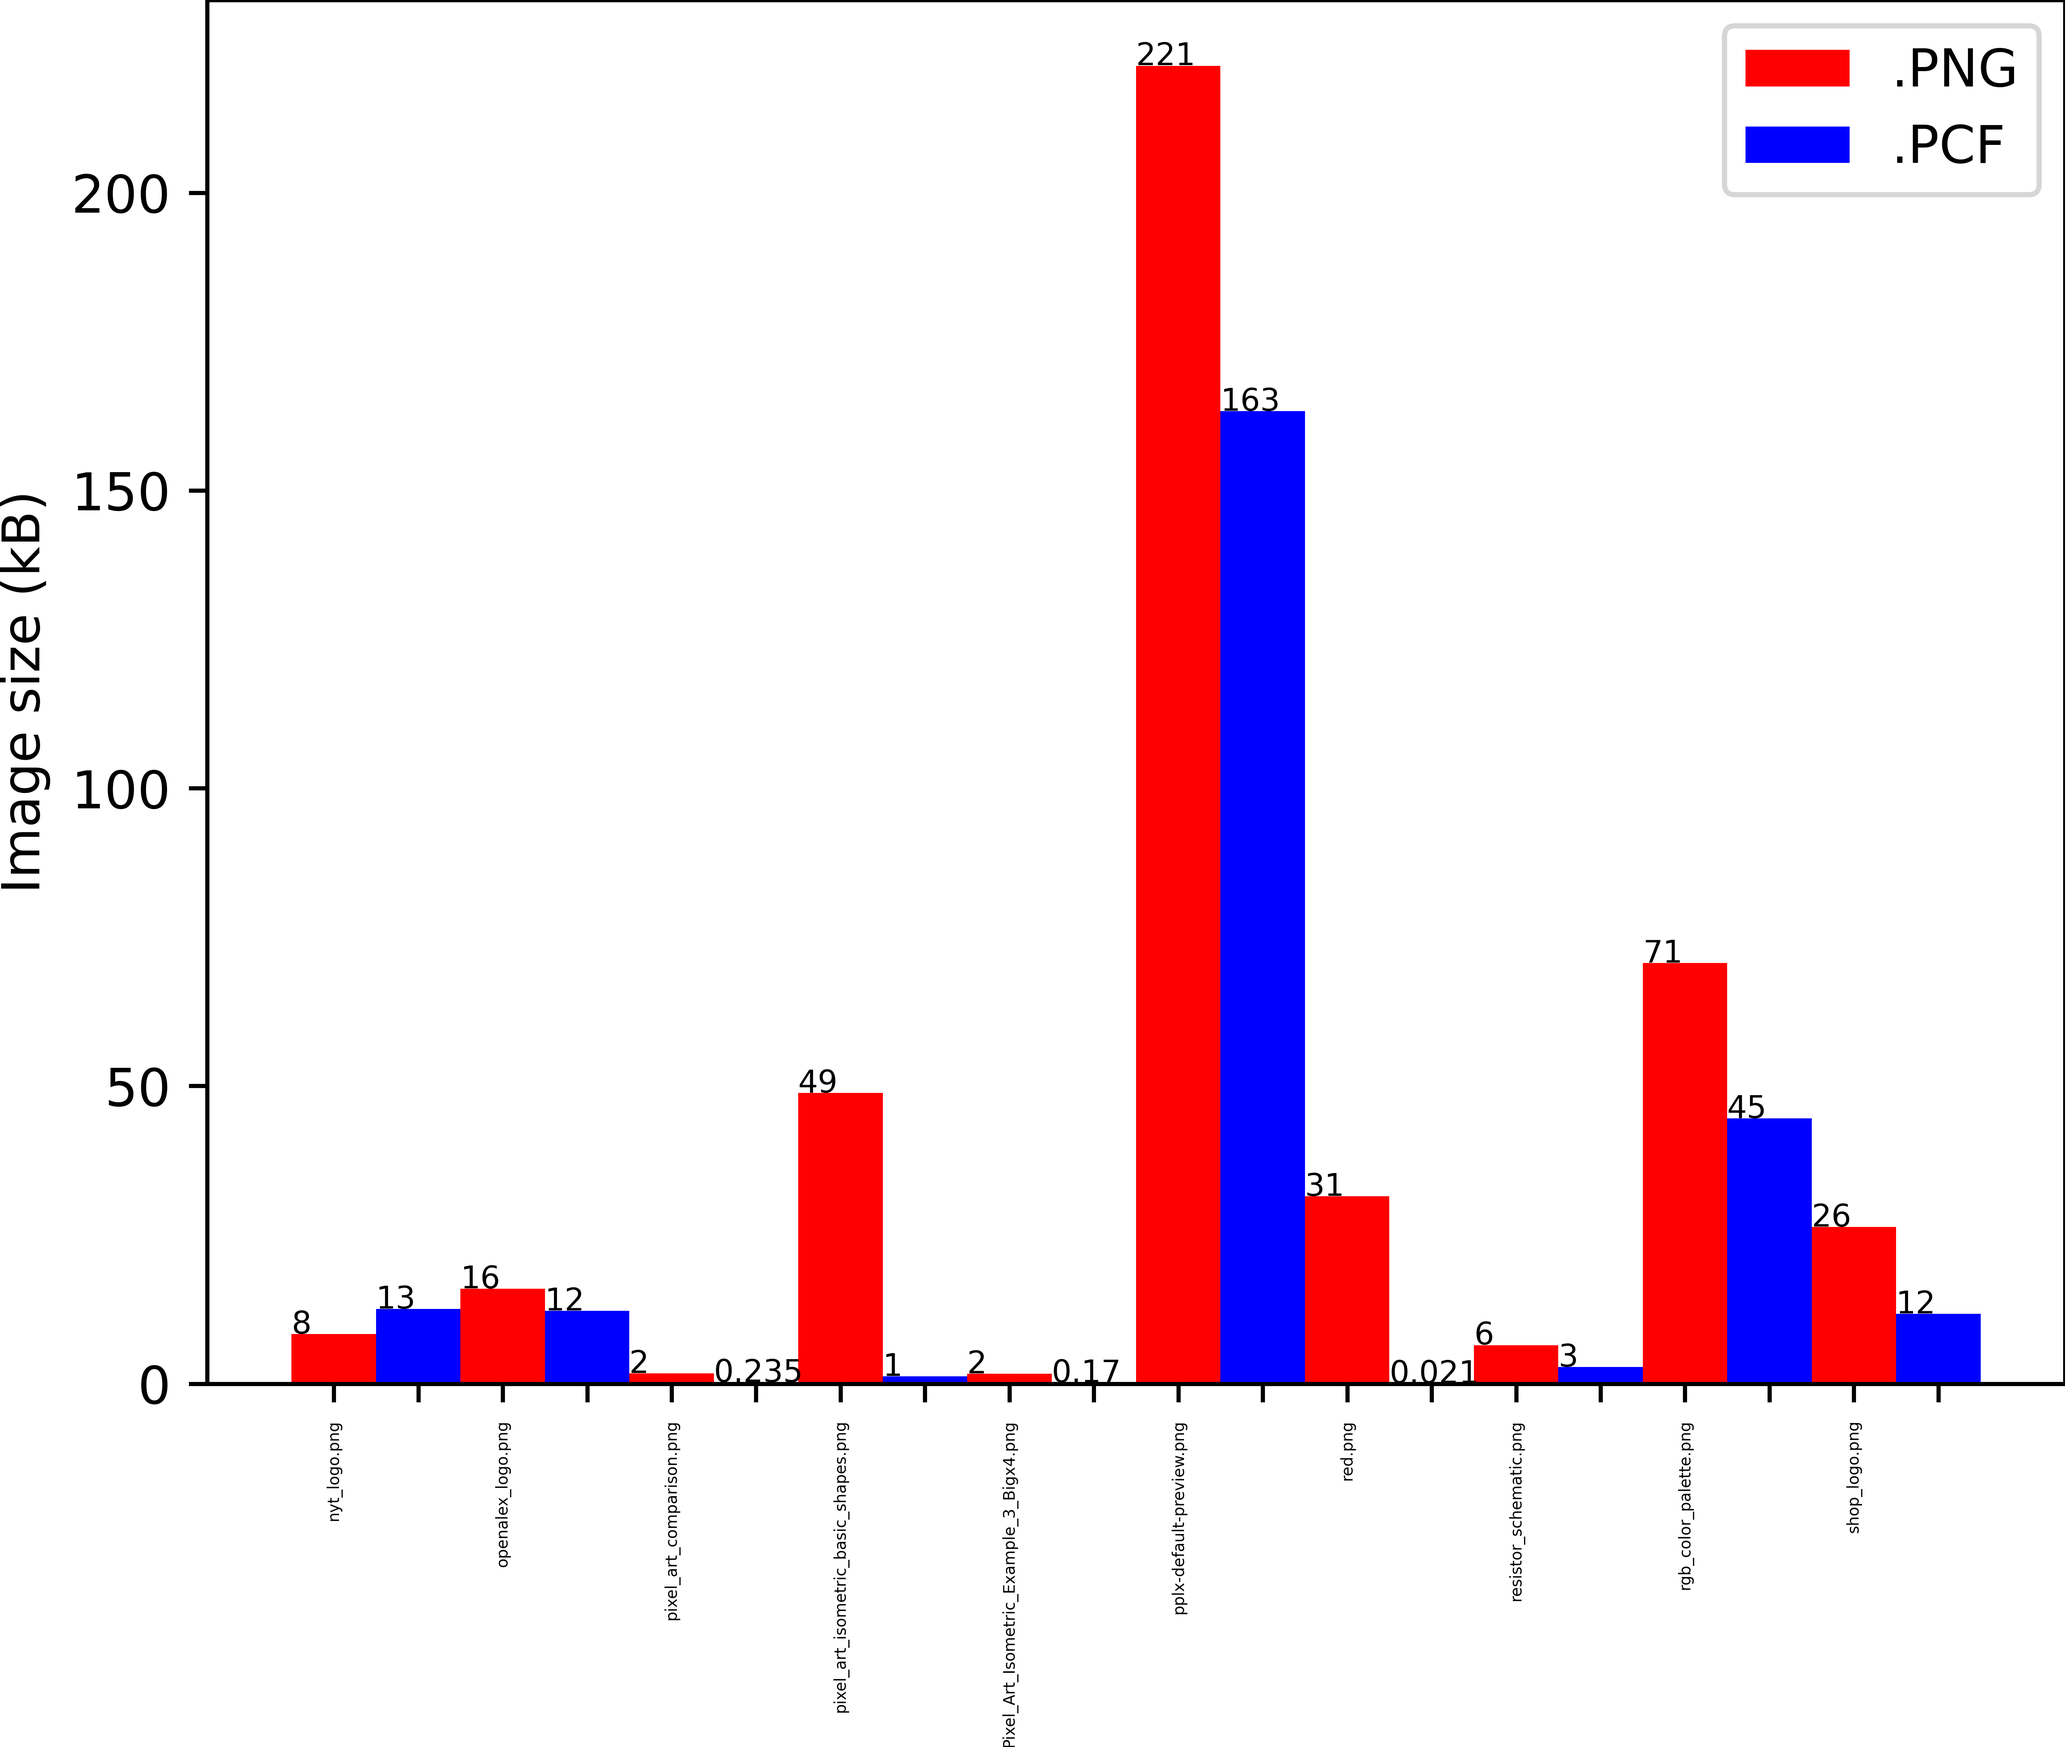
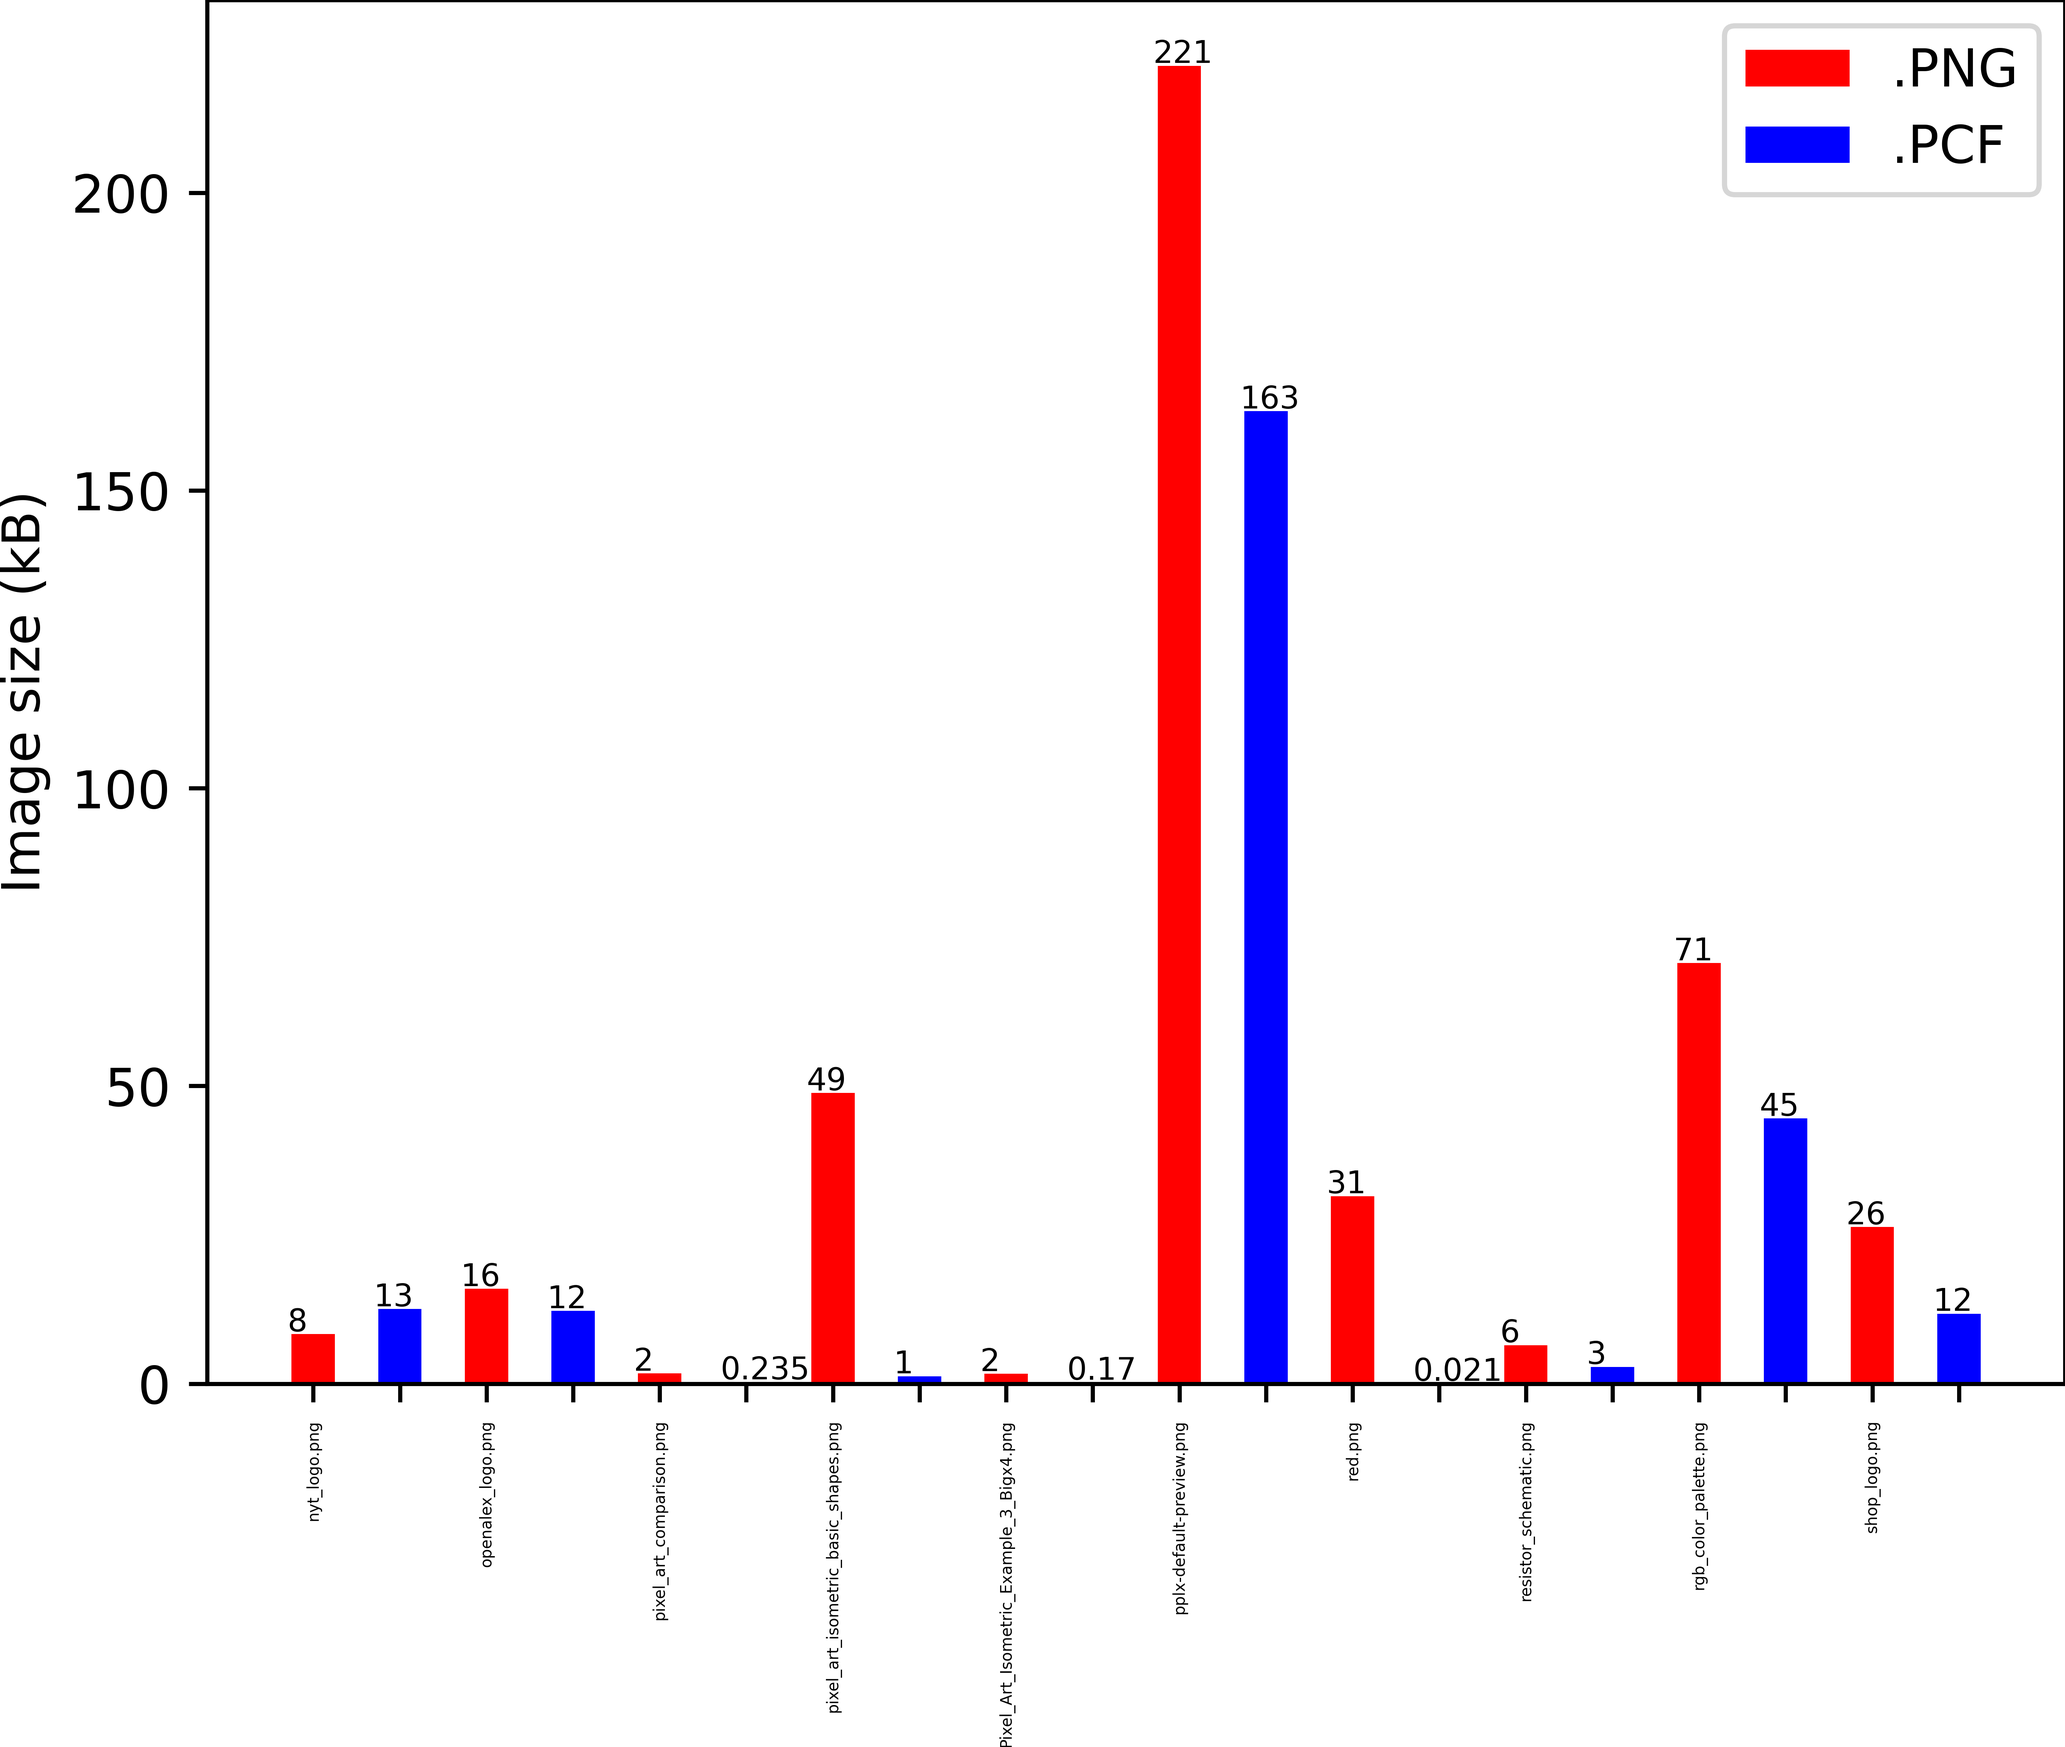
/

diff --git a/plots/plot.py b/plots/plot.py
@@ -20,7 +20,7 @@ names_split = split_list(names_, 10)
 chunkindex = 0
 for (originals, transformed, names) in zip(originals_split, transformed_split, names_split):
     chunkindex += 1
-    barWidth = 1
+    barWidth = 0.5
     png_bar = []
     pcf_bar = []
     png_pcf_bar = []
@@ -34,9 +34,9 @@ for (originals, transformed, names) in zip(originals_split, transformed_split, n
     pcf_bar_pos = []
     for i in range(len(originals+transformed)):
         if (i % 2) == 0:
-            png_bar_pos.append(i+1)
+            png_bar_pos.append(i+0.5)
         else:
-            pcf_bar_pos.append(i+1)
+            pcf_bar_pos.append(i+0.5)
 
     all_bar_pos = range(len(originals+transformed))
 
@@ -68,7 +68,7 @@ for (originals, transformed, names) in zip(originals_split, transformed_split, n
             label.append(transformed[x] / 1000)
 
     for i in range(len(all_bar_pos)):
-        plt.text(x=all_bar_pos[i] + 0.5, y=png_pcf_bar[i] + 0.1, s=label[i], size=6)
+        plt.text(x=all_bar_pos[i] + 0.2, y=png_pcf_bar[i] + 0.5, s=label[i], size=6)
 
     plt.savefig("fig"+str(chunkindex)+".png", dpi=1000, pad_inches=0, bbox_inches="tight")
     plt.clf()

diff --git a/src/main.rs b/src/main.rs
@@ -88,10 +88,12 @@ fn optimize_hex_color(input: String) -> String {
 
 #[inline]
 fn find_closest_palette_color(pixel: Rgba<u8>, palette: Vec<Rgba<u8>>, image: &RgbaImage, x: u32, y: u32, width: u32, height: u32) -> Rgba<u8> {
-    let base_radius: bool = false;
-    let extra_radius: bool = true;
-    let extra_extra_radius: bool = false;
-    let diagonal_pixels: bool = false;
+    let mut base_radius: bool = true;
+    let mut extra_radius: bool = true;
+    let mut extra_extra_radius: bool = false;
+    let mut diagonal_pixels: bool = false;
+
+    let quality_index = 0;
 
     let mut pixels = Vec::new();
     if x > 0 && y > 0 && diagonal_pixels {
